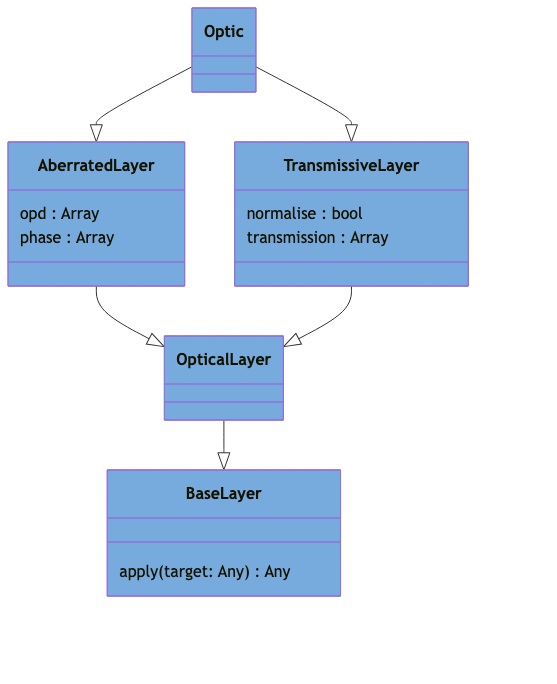
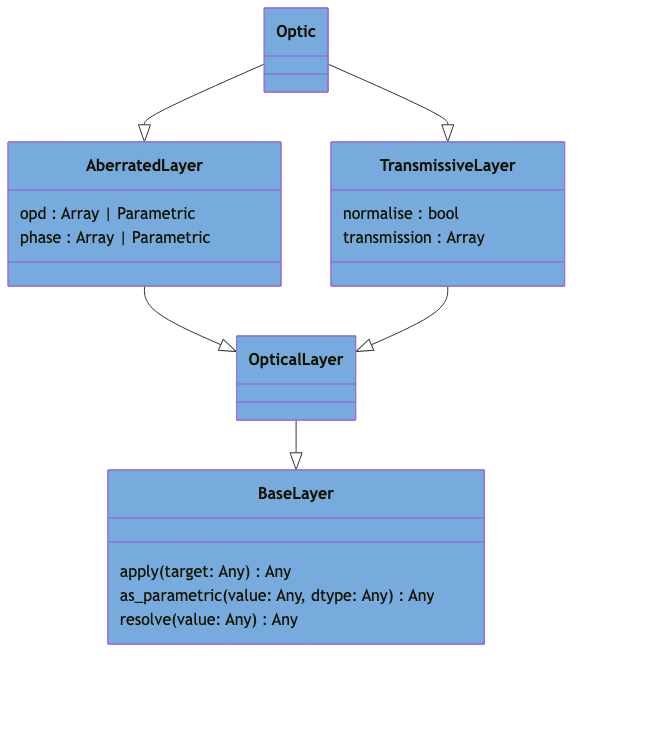
Update v0.16 UML diagrams

diff --git a/src/dLux/parametric.py b/src/dLux/parametric.py
@@ -26,7 +26,11 @@ __all__ = [
 
 
 class Parametric(zdx.Base):
-    """Abstract parameterisation that evaluates to a value when consumed."""
+    """Abstract parameterisation that evaluates to a value when consumed.
+
+    ??? abstract "UML"
+        ![UML](../assets/uml/Parametric.png)
+    """
 
     @abstractmethod
     def evaluate(self: Parametric, **kwargs: Any) -> Array:  # pragma: no cover
@@ -34,7 +38,11 @@ class Parametric(zdx.Base):
 
 
 class ParametricBasis(Parametric):
-    """Base class for coefficient-weighted basis parameterisations."""
+    """Base class for coefficient-weighted basis parameterisations.
+
+    ??? abstract "UML"
+        ![UML](../assets/uml/ParametricBasis.png)
+    """
 
     coefficients: Array
 
@@ -75,7 +83,11 @@ class ParametricBasis(Parametric):
 
 
 class ExplicitBasis(ParametricBasis):
-    """A parameterisation over an explicitly sampled basis array."""
+    """A parameterisation over an explicitly sampled basis array.
+
+    ??? abstract "UML"
+        ![UML](../assets/uml/ExplicitBasis.png)
+    """
 
     basis: Array
 
@@ -108,7 +120,11 @@ class ExplicitBasis(ParametricBasis):
 
 
 class ImplicitBasis(ParametricBasis):
-    """Base class for bases generated or evaluated indirectly at runtime."""
+    """Base class for bases generated or evaluated indirectly at runtime.
+
+    ??? abstract "UML"
+        ![UML](../assets/uml/ImplicitBasis.png)
+    """
 
     @abstractmethod
     def calculate_basis(
@@ -124,7 +140,11 @@ class ImplicitBasis(ParametricBasis):
 
 
 class CoordBasis(ImplicitBasis):
-    """Base class for implicit bases evaluated at Cartesian coordinates."""
+    """Base class for implicit bases evaluated at Cartesian coordinates.
+
+    ??? abstract "UML"
+        ![UML](../assets/uml/CoordBasis.png)
+    """
 
     @staticmethod
     def get_coordinates(*, wavefront: Any = None, coordinates: Array = None) -> Array:
@@ -136,7 +156,11 @@ class CoordBasis(ImplicitBasis):
 
 
 class CLIMBBasis(ExplicitBasis):
-    """A continuous latent basis mapped through the CLIMB binarisation."""
+    """A continuous latent basis mapped through the CLIMB binarisation.
+
+    ??? abstract "UML"
+        ![UML](../assets/uml/CLIMBBasis.png)
+    """
 
     values: Array
     oversample: int = eqx.field(static=True)
@@ -176,7 +200,11 @@ class CLIMBBasis(ExplicitBasis):
 
 
 class FourierBasis(ImplicitBasis):
-    """A parameterisation over a separable real Fourier basis."""
+    """A parameterisation over a separable real Fourier basis.
+
+    ??? abstract "UML"
+        ![UML](../assets/uml/FourierBasis.png)
+    """
 
     kernels: tuple[Array, Array]
 
@@ -199,7 +227,11 @@ class FourierBasis(ImplicitBasis):
 
 
 class SplineBasis(ImplicitBasis):
-    """A fixed 2D array represented by a lower-resolution grid of spline knots."""
+    """A fixed 2D array represented by a lower-resolution grid of spline knots.
+
+    ??? abstract "UML"
+        ![UML](../assets/uml/SplineBasis.png)
+    """
 
     knot_coords: Array
     sample_coords: Array

diff --git a/src/dLux/polynomials.py b/src/dLux/polynomials.py
@@ -18,7 +18,11 @@ __all__ = [
 
 
 class DynamicZernike(zdx.Base):
-    """A dynamically evaluable Zernike polynomial."""
+    """A dynamically evaluable Zernike polynomial.
+
+    ??? abstract "UML"
+        ![UML](../assets/uml/DynamicZernike.png)
+    """
 
     j: int = eqx.field(static=True)
     n: int = eqx.field(static=True)
@@ -64,6 +68,12 @@ class _ZernikeBasis:
 
 
 class ZernikeBasis(_ZernikeBasis, ExplicitBasis):
+    """An explicitly sampled Zernike basis.
+
+    ??? abstract "UML"
+        ![UML](../assets/uml/ZernikeBasis.png)
+    """
+
     def __init__(
         self, coordinates, js=None, radial_orders=None, coefficients=None, diameter=2.0
     ):
@@ -73,6 +83,12 @@ class ZernikeBasis(_ZernikeBasis, ExplicitBasis):
 
 
 class DynamicZernikeBasis(_ZernikeBasis, CoordBasis):
+    """A Zernike basis evaluated dynamically from coordinate context.
+
+    ??? abstract "UML"
+        ![UML](../assets/uml/DynamicZernikeBasis.png)
+    """
+
     zernikes: list[DynamicZernike]
     nsides: int = eqx.field(static=True)
 
@@ -100,6 +116,12 @@ class DynamicZernikeBasis(_ZernikeBasis, CoordBasis):
 
 
 class PolynomialBasis(CoordBasis):
+    """A Cartesian polynomial basis evaluated from coordinate context.
+
+    ??? abstract "UML"
+        ![UML](../assets/uml/PolynomialBasis.png)
+    """
+
     powers: Array
 
     def __init__(self, degree: int, coefficients=None):

diff --git a/src/dLux/layers/detector_layers.py b/src/dLux/layers/detector_layers.py
@@ -66,7 +66,11 @@ class DetectorLayer(BaseLayer):
 
 
 class ApplyInterpolation(DetectorLayer):
-    """Interpolate a PSF through a coordinate transformation."""
+    """Interpolate a PSF through a coordinate transformation.
+
+    ??? abstract "UML"
+        ![UML](../assets/uml/ApplyInterpolation.png)
+    """
 
     transformation: BaseCoordTransform
     method: str

diff --git a/src/dLux/layers/optical_layers.py b/src/dLux/layers/optical_layers.py
@@ -106,7 +106,11 @@ class OpticalLayer(BaseLayer):
 
 
 class Interpolate(OpticalLayer):
-    """Interpolate a wavefront through a coordinate transformation."""
+    """Interpolate a wavefront through a coordinate transformation.
+
+    ??? abstract "UML"
+        ![UML](../assets/uml/Interpolate.png)
+    """
 
     transformation: BaseCoordTransform
     method: str
